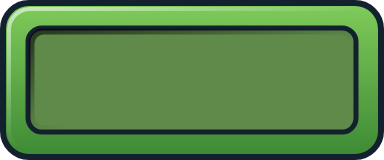
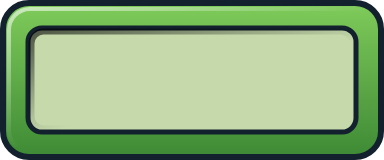
Boîtes claires : terre beige, texte de la météo repassé en sombre
Claude-Session: https://claude.ai/code/session_013EccGmGcBAAqujeLGmWbCi

diff --git a/Assets/Scripts/Presentation/HudView.cs b/Assets/Scripts/Presentation/HudView.cs
@@ -227,7 +227,7 @@ namespace Contigu.Presentation
             _weatherChipIcon.rectTransform.offsetMin = new Vector2(5f, 5f);
             _weatherChipIcon.rectTransform.offsetMax = new Vector2(-5f, -5f);
 
-            _weatherNameLabel = UIFactory.CreateText(card.transform, "WeatherName", "", 21, new Color(0.98f, 0.93f, 0.82f, 1f), TextAnchor.MiddleLeft);
+            _weatherNameLabel = UIFactory.CreateText(card.transform, "WeatherName", "", 21, UITheme.TextPrimary, TextAnchor.MiddleLeft);
             _weatherNameLabel.raycastTarget = false;
             _weatherNameLabel.rectTransform.anchorMin = new Vector2(0f, 1f);
             _weatherNameLabel.rectTransform.anchorMax = new Vector2(1f, 1f);
@@ -238,7 +238,7 @@ namespace Contigu.Presentation
             _weatherNameLabel.resizeTextMinSize = 12;
             _weatherNameLabel.resizeTextMaxSize = 21;
 
-            _weatherEffectLabel = UIFactory.CreateText(card.transform, "WeatherEffect", "", 12, new Color(0.95f, 0.90f, 0.80f, 1f), TextAnchor.UpperLeft);
+            _weatherEffectLabel = UIFactory.CreateText(card.transform, "WeatherEffect", "", 12, UITheme.TextMuted, TextAnchor.UpperLeft);
             _weatherEffectLabel.raycastTarget = false;
             _weatherEffectLabel.rectTransform.anchorMin = new Vector2(0f, 0f);
             _weatherEffectLabel.rectTransform.anchorMax = new Vector2(1f, 1f);

diff --git a/Design/Buttons/generate_plot_buttons.py b/Design/Buttons/generate_plot_buttons.py
@@ -17,11 +17,11 @@ ROLES = {
     'Blue':  ('#7fb0ee', '#2f64b4', '#1b2f4c'),
     'Red':   ('#e8665b', '#a93030', '#4a1d1d'),
     'Wood':  ('#b78552', '#74492a', '#3a2a1c'),
-    # Lighter soil, for the hand slots and the fertilizer box (lots of art sits on them).
-    'WoodLight': ('#b78552', '#74492a', '#8a6a47'),
-    'GoldLight': ('#f6cf62', '#c8871a', '#a8842f'),
-    'RedLight':  ('#e8665b', '#a93030', '#a65048'),
-    'GreenLight': ('#7fcb5a', '#3e8a35', '#5f8a4a'),
+    # Beige soil, for the hand slots and the boxes of the left column (art and dark text sit on them).
+    'WoodLight': ('#b78552', '#74492a', '#d9c3a0'),
+    'GoldLight': ('#f6cf62', '#c8871a', '#ecd9a0'),
+    'RedLight':  ('#e8665b', '#a93030', '#e3b4ab'),
+    'GreenLight': ('#7fcb5a', '#3e8a35', '#c5d9ab'),
 }
 GUIDS = {
     'Green': '2d71a0c4e9b3485f8a16d3c07e52b9f1', 'Gold': '6f08c3b7a1e4492d9b35e0d8a74c1f26', 'Blue': 'b3e5d927c0a84f16a97d2c48e1f06b53',

diff --git a/docs/DECISIONS.md b/docs/DECISIONS.md
@@ -9516,3 +9516,6 @@ Ceci couvre l'intégralité des retours de playtest de cette liste.
 
 ## 2026-11-12 — Carte de score et carte de météo de la colonne de gauche en parcelles
 - La boîte du haut (manche, total, pastilles de points et de Mult) prend le même lit de bois à terre claire que la boîte des fertilizers (`PlotWoodLight`) ; la carte de météo aussi, mais son lit suit la météo (bois pour un ciel dégagé, rouge pour une météo dure, vert pour les autres : `PlotRedLight`, nouvelle `PlotGreenLight`, au lieu de la teinte sur crème) et son texte passe en crème (nom, effet). Le contour épais ajouté à la carte de météo disparaît (le sprite a le sien). La rangée de météo de « Coming up » (boutique) reste crème. Non vérifié dans Unity : lisibilité du texte coloré (Mult rouge, points bleus) sur la terre claire.
+
+## 2026-11-12 — Terre beige pour les boîtes claires
+- Encore plus clair, « presque un beige » : la terre des variantes claires passe à un beige (`PlotWoodLight` #d9c3a0, `PlotGoldLight` #ecd9a0, `PlotRedLight` #e3b4ab, `PlotGreenLight` #c5d9ab) ; le lit coloré les distingue toujours. Le texte de la carte de météo repasse en sombre (comme sur le crème), celui du panneau vide aussi. Les boutons gardent leur terre sombre. Non vérifié dans Unity.
